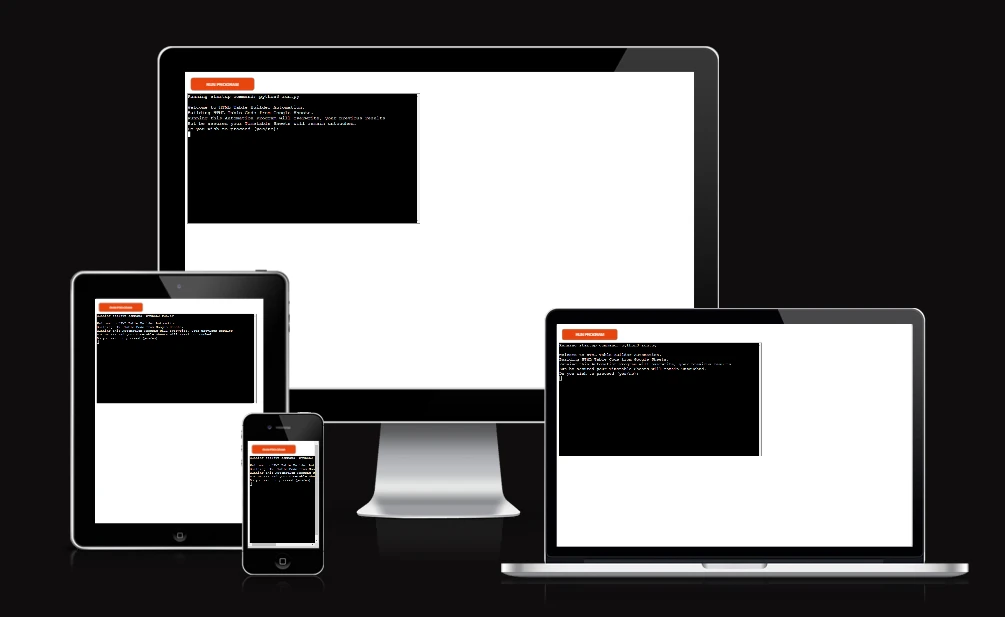
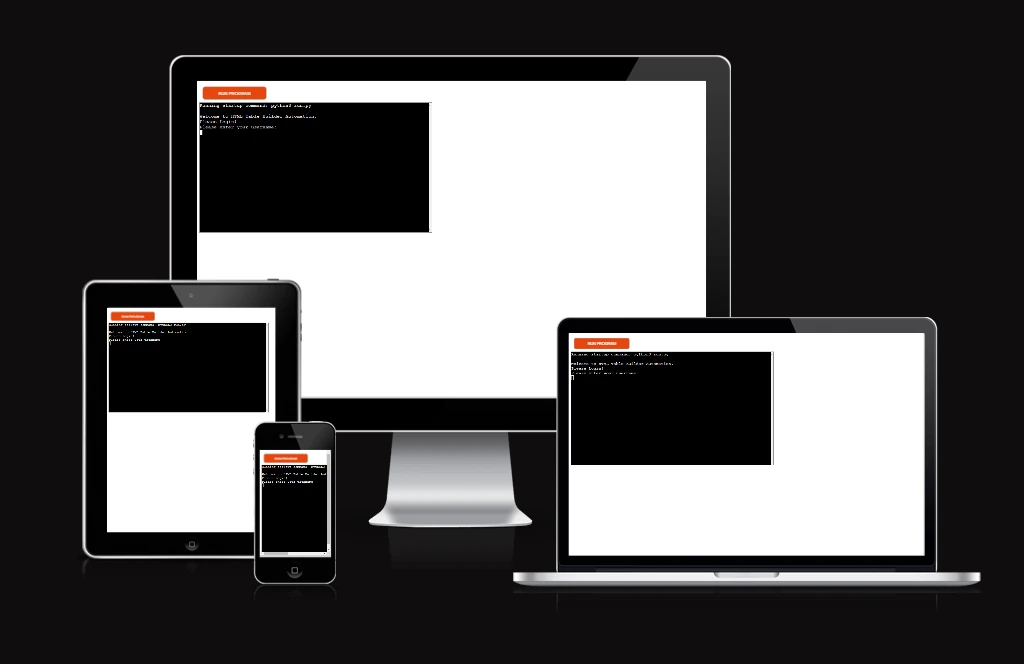
Update readme Design Choices

Changed region(s): [[0.0617, 0.0616, 0.9562, 0.9546]]

diff --git a/README.md b/README.md
@@ -24,7 +24,7 @@ HTML Table Builder is useful by allowing LLC staff to manipulate and design time
 
 Within some pre-defined parameters, they can design the timetable layout to accommodate peculiarities on some routes.
 
-Excel is a familiar environment for LLC staff to work with and a lot of the timetable data is held in excel sheets. 
+Excel is a familiar environment for LLC staff to work with and a lot of the timetable data is currently held in excel sheets. 
 
 Google Sheets has a lot of similarities and of course LLC staff can copy and paste their Excel creations to Google Sheets.
 
@@ -42,23 +42,42 @@ Google Sheets              |  Python Utility
 
 This is a non GUI application.
 
-![](assets/images/heroku.webp)
+![](assets/images/herokuapp.webp)
 
-The only interaction with the user is a simple yes/no input like this:
+The initial interaction with the user is a simple login like this:
 
-'Do you wish to proceed (yes/no):
+Please enter your username:
 
-This gets verification from the user whether to proceed or not in running the application.
+Please enter your password:
+
+---------------------------
+
+Once logged in the user is presented with a Main Menu:
+
+![](assets/images/herokuinterface.webp)
 
 ---------------------------
 
-The user is advised of the consequences of running the application like this:
+The user also has access to two Google Sheets:
 
-'Running this Automation Program will overwrite, your previous results'
+1. html_table_builder
 
-'But be assured your Timetable Sheets will remain untouched.'
+<mark>This is the Sheet that the Application interacts with</mark>
+
+![](assets/images/sheetblank.webp)
+
+
+2. Timetables
+
+<mark>This is the Sheet that Contains all the Timetable worksheets</mark>
+
+![](assets/images/timetables.webp)
+
+
+<mark>Note: Both Sheets have a Rules Tab which is for reference only</mark>
 
 ---------------------------
+
 
 While the application is running the user is kept informed of progress with messages like this:
 
